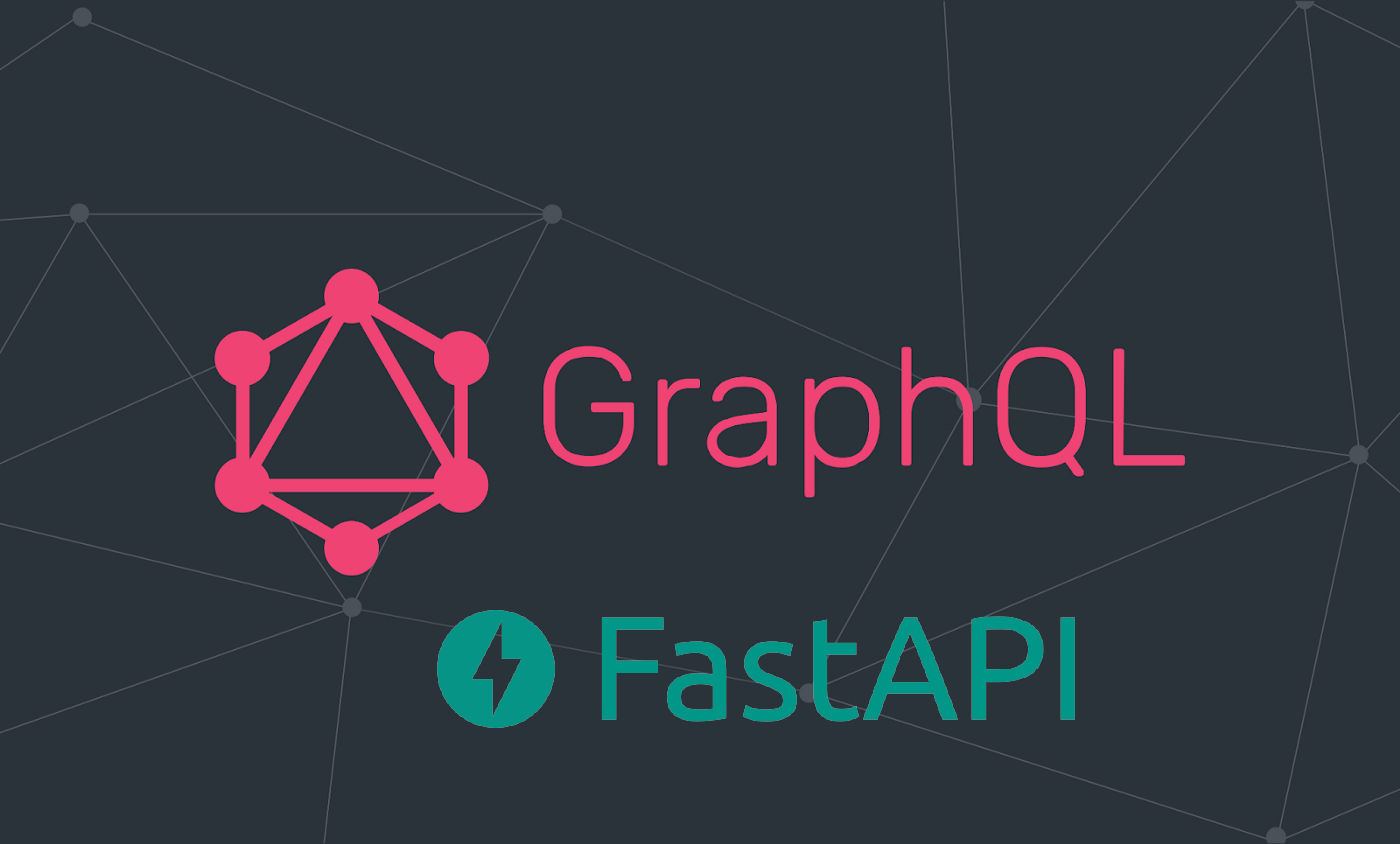
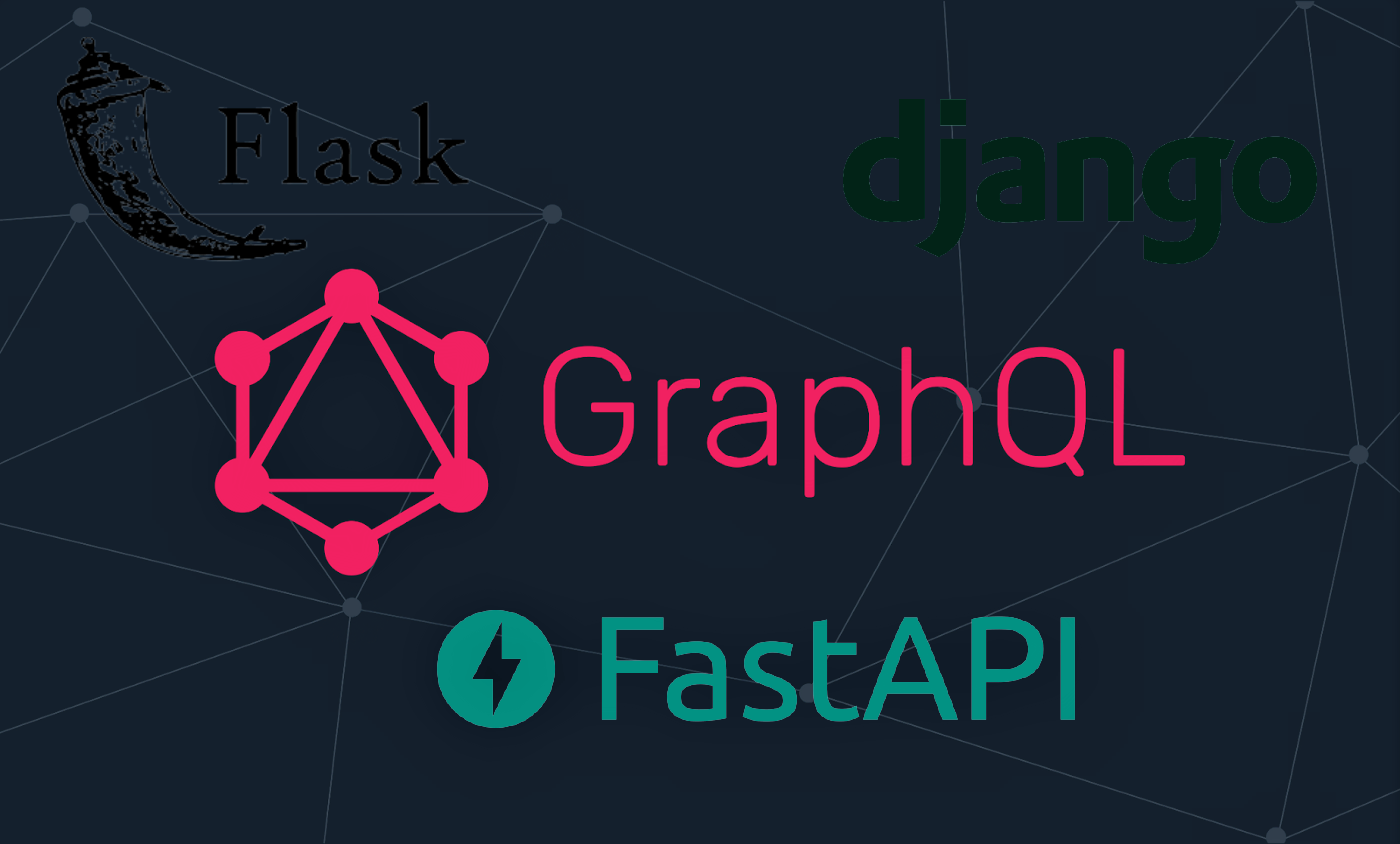
graphql update

diff --git a/projects/index.html b/projects/index.html
@@ -197,6 +197,41 @@
 <!-- ############################################### Software Part Top projects ############################################### -->
                             <div class="tab-pane fade show active" id="blog_latest" role="tabpanel">
                                 <div class="row">
+
+                                              <!--~~~~~ Start Post ~~~~~-->
+                                              <div class="col-lg-4 col-md-6">
+                                                <article class="post hentry post-grid">
+                                                    <div class="entry-thumb">
+                                                        <figure class="thumb-wrap">
+                                                            <a href="#SP11">
+                                                                <img src="assets/images/img/Graphql.png" alt="post">
+                                                            </a>
+                                                            <div class="featured-badge-list">
+                                                                
+                                                            </div><!--./ featured-badge-list -->
+                                                        </figure>
+                                                    </div><!--./ entry-thumb -->
+                                                    <div class="content-entry-wrap">
+                                                        <div class="entry-content">
+                                                            <h3 class="entry-title" style="font-family: 'Poppins', sans-serif;">
+                                                                <a href="#SP11">GraphQL API services with Python (Django, Flask, FastAPI) </a>
+                                                            </h3>
+                                                        </div><!--./ entry-content -->
+                                                        <div class="entry-meta-content">
+                                                    
+                                                            <div class="entry-date">
+                                                                <span>API development</span>
+                                                            </div>
+                                                      
+                                                        </div>
+                                                    </div>
+                                                </article>
+                                            </div><!--~./ end post ~-->
+
+
+
+
+
                                     <!--~~~~~ Start Post ~~~~~-->
                                     <div class="col-lg-4 col-md-6">
                                         <article class="post hentry post-grid">
@@ -1336,10 +1371,10 @@
                                 </div>
 
 
-                                <!-- Last number is SP10 -->
+                                <!-- Last number is SP11 -->
 
 
-                                <div class="col-12"  id="SP10">
+                                <div class="col-12"  id="SP11">
 
                                     <article class="post hentry post-list">
                                          <div class="entry-thumb">
@@ -1356,21 +1391,21 @@
                                          <div class="content-entry-wrap">
                                              <div class="entry-content">
                                                  <h3 class="entry-title">
-                                                    Content Management system GraphQL API Development
+                                                    GraphQL API Development With Python
                                                  </h3>
                                              </div><!--./ entry-content -->
                                              <div class="entry-meta-content">
                                                  <div class="entry-meta-author">
                                                    
                                                      <div class="entry-author-name">
-                                                         <a href=""> <span style="color: #D82E2A;"><b> Tech Stack</b>:</span> FastAPI, GraphQL,  PostgreSQL </a>
+                                                         <a href=""> <span style="color: #D82E2A;"><b> Tech Stack</b>:</span> Django, Flask, FastAPI, GraphQL, Ariadne, strawberry, Graphene. </a>
                                                      </div>
                                                  </div><!--./ entry-meta-author -->
                                               
                                              </div><!--./ entry-meta-content -->
                                              <div class="entry-summary">
-                                                 <p>An fully functional GraphQL API built with PostgreSQL and FastAPI using strawberry 
-                                                 </p><a target="_blank" href="https://github.com/Ik-Emmanuel/GraphQL-Blog-API-with-FastAPI" style="font-size: medium; color: white;  background: #D82E2A; padding: 1em 2em; border-radius: 40px;" class="read-more">View Sample </a>
+                                                 <p>Multiple functional GraphQL APIs built with Python using different python frameworks: <b style="color: black;">FastAPI, Flask, Django</b> and graphql libraries such as <b style="color: black;">Ariadne, Graphene and Strawberry</b>
+                                                 </p><a target="_blank" href="https://github.com/Ik-Emmanuel/GraphQL-with-Python" style="font-size: medium; color: white;  background: #D82E2A; padding: 1em 2em; border-radius: 40px;" class="read-more">View Code </a>
                                              </div>
                                          </div>
                                      </article>
@@ -1405,7 +1440,7 @@
                                               
                                              </div><!--./ entry-meta-content -->
                                              <div class="entry-summary">
-                                                 <p>A Compilation of multiple developed React Apps 
+                                                 <p>A Compilation of multiple developed React Applications
                                                  </p><a href="#VDSD5" style="font-size: medium; color: white;  background: #D82E2A; padding: 1em 2em; border-radius: 40px;" class="read-more">View Demo </a>
                                              </div>
                                          </div>
